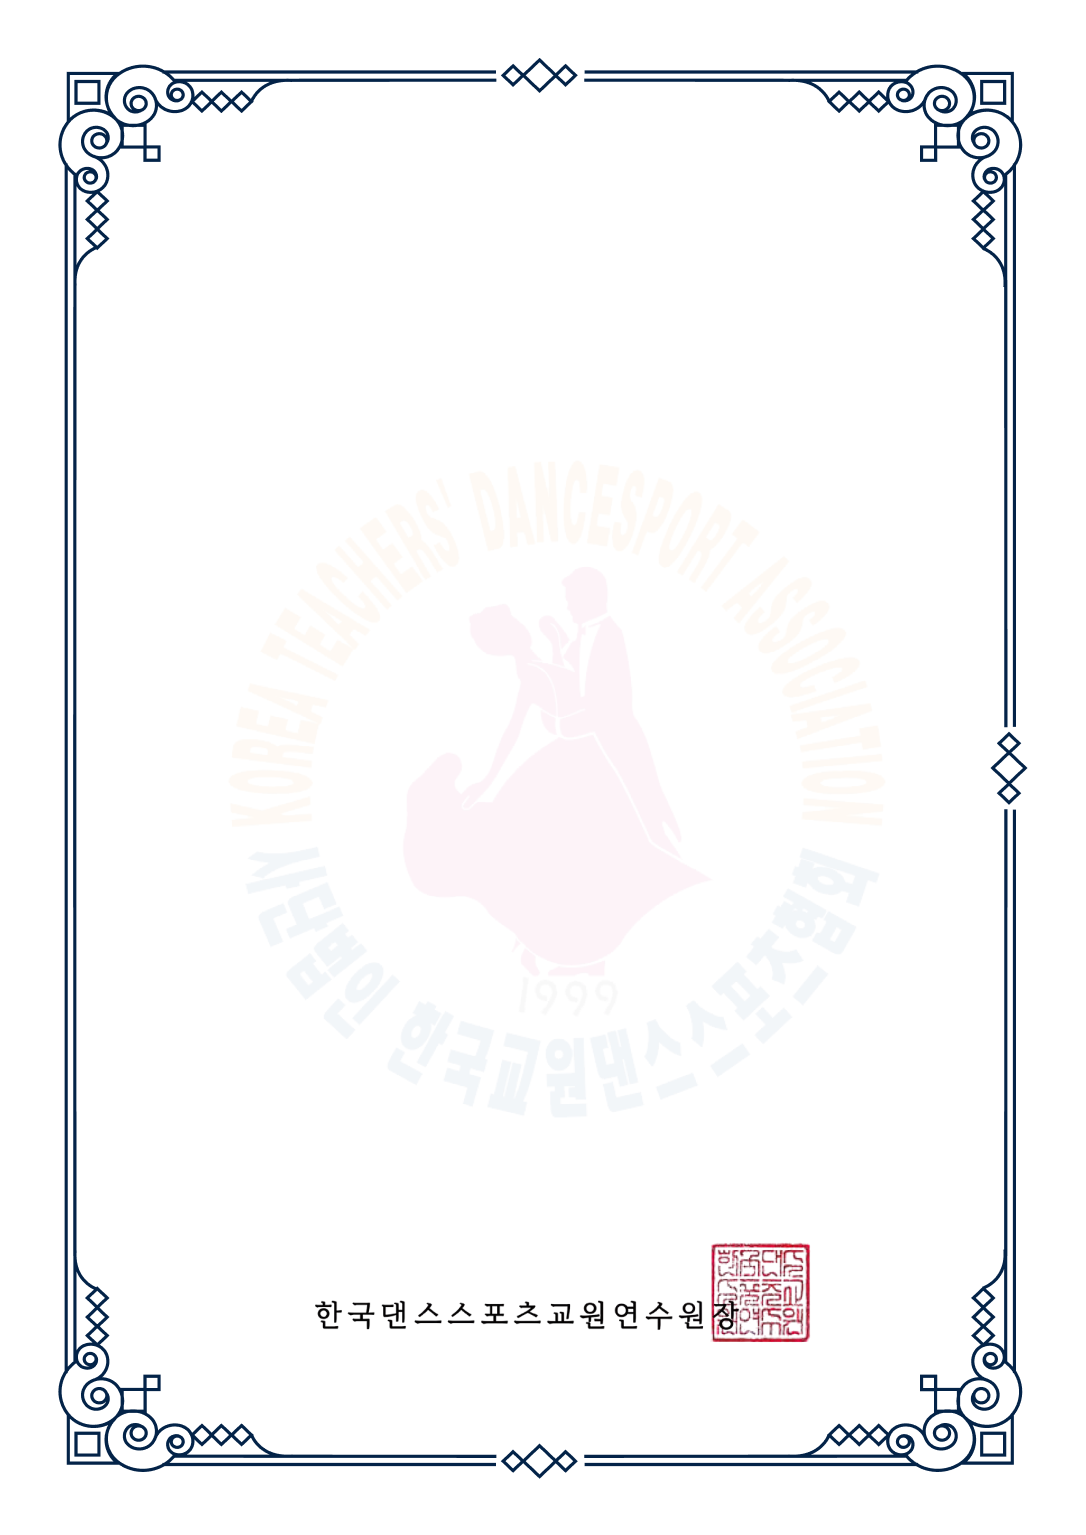
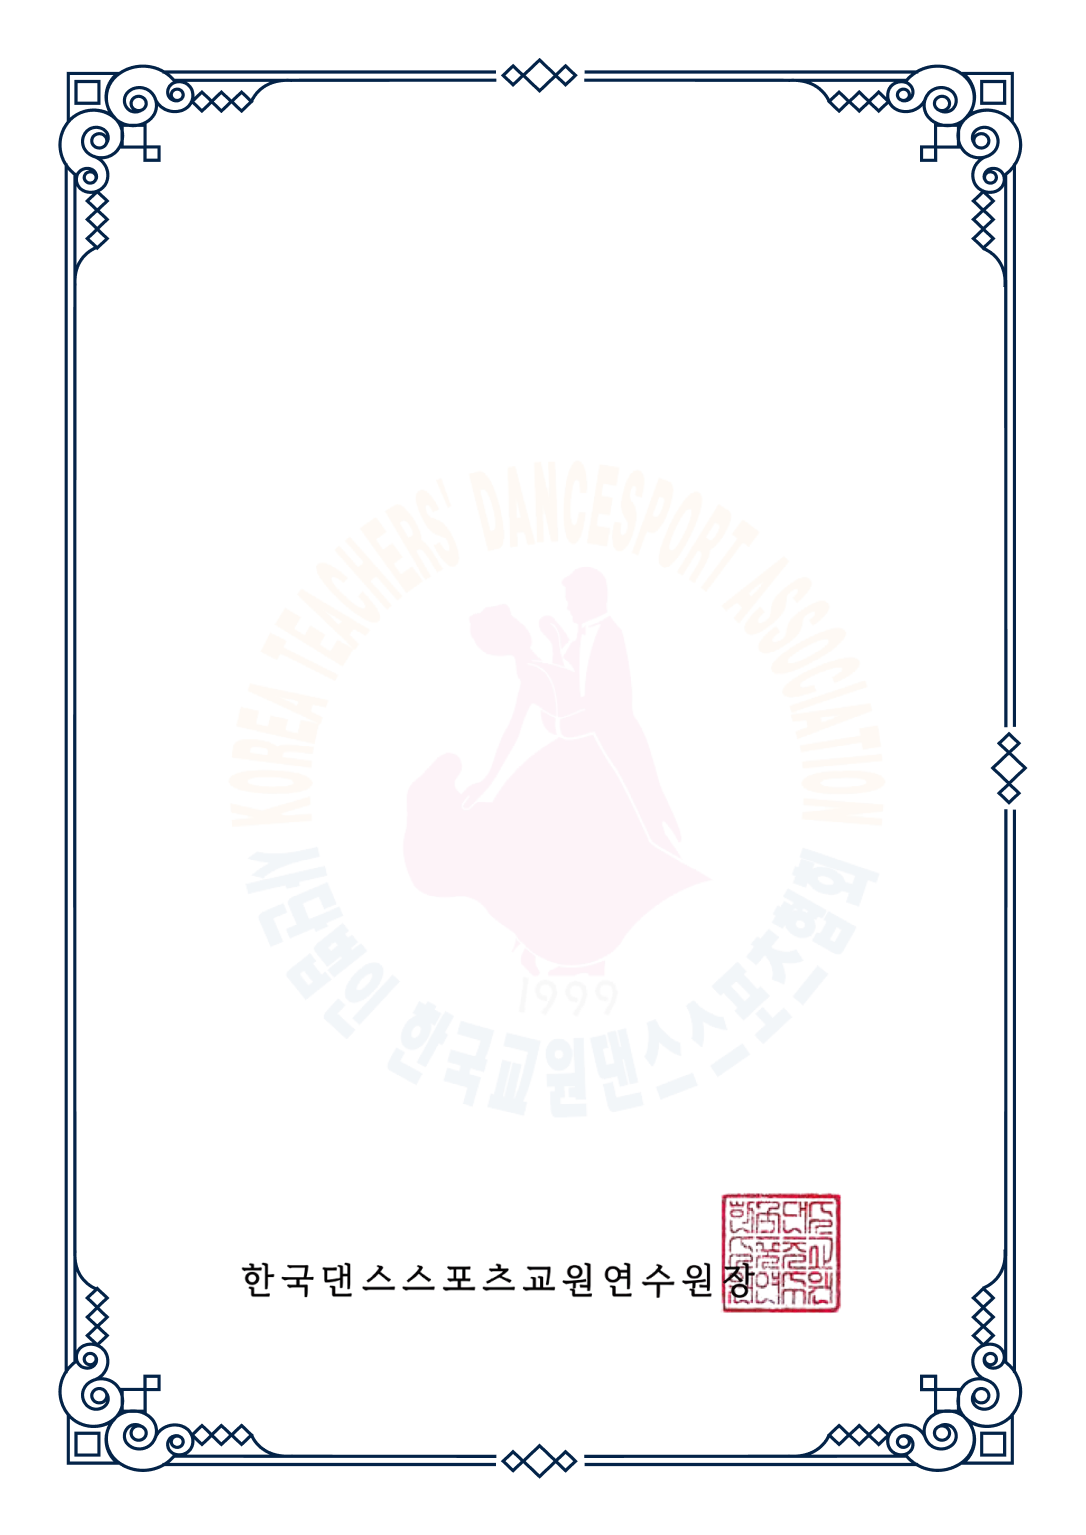
04/16-edit

Changed region(s): [[0.2127, 0.7655, 0.7901, 0.8879]]

diff --git a/student-record.html b/student-record.html
@@ -513,7 +513,7 @@
 
 
     <!-- 컨텐츠 영역 -->
-    <div id="main-content" class="ml-64 max-lg:ml-0 transition-all duration-300 overflow-y-auto min-h-screen max-w-[1520px]" style="z-index: -1;">
+    <div id="main-content" class="ml-64 max-lg:ml-0 transition-all duration-300 overflow-y-auto min-h-screen max-w-[1520px]" >
         <div class="w-full h-full px-6 max-sm:pt-[70px] pt-[70px] pb-[100px] realtive">
             <h1 class="mt-[50px] h1-title border-gray-300 font-normal paperlogy">과정출석부</h1>
             <div class="flex justify-start flex-col max-md:justify-start mb-2">
@@ -1287,7 +1287,7 @@
             </button>
             <h2 class="h1-title paperlogy font-normal text-[#292929] mb-4 text-left">기초자료</h2>
             <div class="border-t-[2px] border-[#2B5BBB]"></div>
-            <div class="printArea screen-layout">
+            <div class="printArea landscape">
                 <div class="basicdata-box">
                     <h2 class="text-[28px] max-sm:text-[22px] font-semibold text-[#292929] mt-8 mb-10 text-center">라틴 초중급 과정</h2>
                     <div class="flex justify-between max-xl:flex-col">
@@ -1410,7 +1410,7 @@
                     <img src="img/exel.png" alt="엑셀 아이콘" class="w-5 h-5" />
                     엑셀<span class="block max-sm:hidden text-[#EDF3FF]">다운로드</span>
                 </button>
-                <button onclick="printClassArea('basicDataModal')"
+                <button onclick="printLandscape('basicDataModal')"
                         class="bg-[#A40B0D] hover bg-[#8E2F2A] text-white py-2 px-6 max-sm:px-4 rounded-md flex items-center gap-1">
                     <img src="img/pdf.png" alt="pdf 아이콘" class="w-5 h-5" />
                     PDF<span class="inline-block max-sm:hidden text-[#EDF3FF]">다운로드</span>
@@ -1439,7 +1439,7 @@
 
                     <div class="overflow-auto flex justify-center">
                         <table class="min-w-[1400px] w-full table-auto text-sm border border-[#ccc]">
-                            <thead class="bg-[#EDF3FF] text-[#2B5BBB] font-semibold text-center">
+                            <thead class="bg-[#EDF3FF] ftext-[#292929] font-semibold text-center">
                                 <tr>
                                     <th class="border px-2 py-2">번호</th>
                                     <th class="border px-2 py-2">학교명</th>
@@ -1535,7 +1535,7 @@
                     <img src="img/exel.png" alt="엑셀 아이콘" class="w-5 h-5" />
                     엑셀<span class="block max-sm:hidden text-[#EDF3FF]">다운로드</span>
                 </button>
-                <button onclick="printClassArea('attendanceModal')"
+                <button onclick="printLandscape('attendanceModal')"
                         class="bg-[#A40B0D] hover bg-[#8E2F2A] text-white py-2 px-6 max-sm:px-4 rounded-md flex items-center gap-1">
                     <img src="img/pdf.png" alt="pdf 아이콘" class="w-5 h-5" />
                     PDF<span class="inline-block max-sm:hidden text-[#EDF3FF]">다운로드</span>
@@ -1604,7 +1604,7 @@
                     <img src="img/exel.png" alt="엑셀 아이콘" class="w-5 h-5" />
                     엑셀<span class="block max-sm:hidden text-[#EDF3FF]">다운로드</span>
                 </button>
-                <button onclick="printClassArea('nameTagModal')"
+                <button onclick="printLandscape('nameTagModal')"
                         class="bg-[#A40B0D] hover bg-[#8E2F2A] text-white py-2 px-6 max-sm:px-4 rounded-md flex items-center gap-1">
                     <img src="img/pdf.png" alt="pdf 아이콘" class="w-5 h-5" />
                     PDF<span class="inline-block max-sm:hidden text-[#EDF3FF]">다운로드</span>
@@ -1823,18 +1823,18 @@
                 </div>
                 <div class="border-t-[1px] border-[#DBDEE3] mb-2"></div>
                 <div class="printArea screen-layout overflow-x-auto flex justify-center item-center overflow-auto no-scrollbar">
-                    <div class="relative bg-white certificate-box min-w-[500px] max-w-[500px]">
+                    <div class="relative bg-white certificate-box min-w-[450px] max-w-[450px]">
                         <img src="img/certificate-bg.png" alt="이수증 배경"
                             class="absolute inset-0 w-full h-full object-cover z-0"/>
-                        <div class="certificate-inner absolute inset-0 z-10 px-16 py-[80px] text-center text-[#222]">
-                            <h2 class="text-xl font-medium">교육연수</h2>
-                            <h1 class="text-xl font-bold mb-12">이수증</h1>
-                            <p class="certificate-info text-left text-[12px] mb-12">
+                        <div class="certificate-inner absolute inset-0 z-10 px-16 py-[70px] text-center text-[#222]">
+                            <h2 class="text-[20px] font-medium">교육연수</h2>
+                            <h1 class="text-[25px] font-bold mb-6">이수증</h1>
+                            <p class="certificate-info text-left text-[12px] mb-4">
                                 경기도교육청 지정<br>
                                 (전국) 유초중등교원 특수분야연수기관 (지정번호: 경기-교육-2024-08 )
                             </p>
 
-                            <div class="text-left mb-10 grid grid-cols-2 gap-x-6">
+                            <div class="text-left mb-6 grid grid-cols-2 gap-x-6">
                                 <!-- 나머지는 한 줄 전체 사용 -->
                                 <div class="col-span-2 text-[12px] mb-2">
                                     <span class="font-semibold text-[14px]">이수번호 :</span>
@@ -1905,16 +1905,16 @@
                     ※ 은행명: <span class="text-[#000]">기업은행</span>
                 </div>
                 <div class="border-t-[1px] border-[#DBDEE3] mb-2"></div>
-                    <div class="printArea screen-layout overflow-x-auto flex justify-center item-center overflow-auto no-scrollbar">
-                        <div class="relative bg-white receipt-box max-h-[600px] max-w-[570px] min-w-[550px]">
-                            <div class="relative z-10 p-4">
-                                <h1 class="text-center text-2xl font-bold mb-8">영 수 증</h1>
+                    <div class="printArea overflow-x-auto flex justify-center item-center overflow-auto no-scrollbar">
+                        <div class="relative bg-white receipt-box max-h-[650px] max-w-[570px] min-w-[550px]">
+                            <div class="relative z-10 p-4 receipt-inner">
+                                <h1 class="text-center text-2xl font-bold mb-8 receipt">영 수 증</h1>
                         
                                 <!-- 공급자 정보 -->
                                 <table class="table-auto w-full border border-black mb-4">
                                 <thead>
                                     <tr>
-                                    <th colspan="2" class="border border-black px-2 py-1 bg-gray-100 text-left font-semibold">공급자 정보</th>
+                                    <th colspan="2" class="border border-black px-2 py-1 bg-gray-100 text-left font-semibold text-[18px]">공급자 정보</th>
                                     </tr>
                                 </thead>
                                 <tbody>
@@ -1937,7 +1937,7 @@
                                 <table class="table-auto w-full border border-black text-sm mb-6">
                                 <thead>
                                     <tr>
-                                    <th colspan="4" class="border border-black px-2 py-1 bg-gray-100 text-left font-semibold">연수 수강자 정보</th>
+                                    <th colspan="4" class="border border-black px-2 py-1 bg-gray-100 text-left font-semibold text-[18px]">연수 수강자 정보</th>
                                     </tr>
                                 </thead>
                                 <tbody>
@@ -1961,12 +1961,12 @@
                                 </table>
                         
                                 <!-- 기타 문구 -->
-                                <p class="mt-6 text-sm text-center">
+                                <p class="mt-6 text-[14px] text-center">
                                     상기 연수비를 납입하였음을 확인합니다. <br/>
                                     (직무연수 수강료)
                                 </p>
                         
-                                <p class="mt-4 text-sm text-center">2025년 04월 10일</p>
+                                <p class="mt-4 text-[14px] text-center">2025년 04월 10일</p>
                         
                                 <div class="mt-4 w-[70%] mx-auto">
                                     <img src="img/receipt-bottom.png" alt="한국댄스스포츠연수원장 직인">
@@ -2265,6 +2265,65 @@
             window.print();
             document.body.innerHTML = originalContents;
         }
+
+        function printLandscape(modalId) {
+            const printArea = document.getElementById(modalId).querySelector('.printArea');
+            if (printArea) {
+                // 가로 방향 및 용지 크기 확대를 위한 style 추가
+                const landscapeStyle = document.createElement('style');
+                landscapeStyle.id = 'tempLandscapeStyle';
+                landscapeStyle.textContent = `
+                    @media print {
+                        @page {
+                            size: landscape;
+                            margin: 5mm;
+                        }
+                    }
+                `;
+                document.head.appendChild(landscapeStyle);
+
+                const originalStyle = document.createElement('style');
+                originalStyle.id = 'tempOriginalStyle';
+                originalStyle.textContent = `
+                    @media print {
+                        body * {
+                            visibility: hidden;
+                        }
+                        #${modalId} .printArea, #${modalId} .printArea * {
+                            visibility: visible;
+                        }
+                        #${modalId} {
+                            position: absolute;
+                            left: 0;
+                            top: 30;
+                            width: auto !important; /* auto로 변경하여 내용에 맞게 조절 */
+                            height: auto !important;
+                            display: block !important; /* flex hidden 해제 */
+                        }
+                        #${modalId} .printArea {
+                            width: 100%; /* printArea 자체의 너비도 100%로 설정 */
+                        }
+                    }
+                `;
+                document.head.appendChild(originalStyle);
+
+                window.print();
+
+                // 인쇄 후 스타일 태그 제거
+                window.onafterprint = () => {
+                    const tempLandscapeStyle = document.getElementById('tempLandscapeStyle');
+                    const tempOriginalStyle = document.getElementById('tempOriginalStyle');
+                    if (tempLandscapeStyle) {
+                        document.head.removeChild(tempLandscapeStyle);
+                    }
+                    if (tempOriginalStyle) {
+                        document.head.removeChild(tempOriginalStyle);
+                    }
+                    window.onafterprint = null;
+                };
+            }
+        }
+        
 
 
         // ✅  영수증 슬라이드

diff --git a/css/main.css b/css/main.css
@@ -153,21 +153,21 @@ a * {
 
 @media print {
     @page {
-        size: A4;
-        margin: 0;
+        size: A4 portrait;
+        margin: 20mm;
     }
 
     body,
     html {
-        margin: 0 auto;
-        width: 794px;
-        height: 1123px;
+        width: 100%;
+        height: 100%;
         background-color: #FFFFFF !important;
     }
 
     table {
         border-collapse: collapse;
         width: 100%;
+        table-layout: fixed;
     }
 
     th,
@@ -190,34 +190,67 @@ a * {
     }
 
     .printArea {
-        width: 750px;
+        width: 100%;
         height: auto;
-        margin: 20px auto; 
-        background-color: white;
     }
 
-    .basicdata-box {
-        box-sizing: border-box;
-        width: 1123px !important;
-        height: 794px !important;
-        min-width: none !important;
-        padding: 100px;
-        display: block !important;
-    }
 
-    .attendance-box {
+    .receipt-box {
+        width: 794px !important;
         box-sizing: border-box;
-        width: 100% !important;
-        height: auto !important;
-        min-width: none !important;
-        max-width: 1123px !important;
-        height: auto !important;
-        padding: 10px;
         margin: 0 auto;
-        display: block;
-        background-color: #ffffff !important; 
     }
 
+    .certificate-box img {
+        margin: 20px auto;
+        width: 96%;
+        height: 96%;
+        object-fit: cover;
+    }
+
+    .certificate-box {
+        width: 794px !important;
+        height: 1123px !important;
+        box-sizing: border-box;
+        max-width: none !important;
+        aspect-ratio: auto !important;
+    }
+
+    .certificate-inner {
+        margin: 0 auto;
+        width: 630px;
+    }
+
+
+    .certificate-box h2 {
+        margin-top: 70px;
+        font-size: 35px !important;
+    }
+
+    .certificate-box h1 {
+        font-size: 45px !important;
+        margin-bottom: 50px;
+    }
+
+    .certificate-box p {
+        font-size: 18px !important;
+        line-height: 2 !important;
+    }
+
+    .certificate-box .certificate-info {
+        margin-bottom: 50px;
+    }
+
+    .certificate-box span {
+        font-size: 22px !important;
+        line-height: 2 !important;
+        margin-bottom: 20px;
+    }
+
+    .certificate-box .grid>div:last-child {
+        margin-bottom: 20px;
+    }
+    
     .namatag-box-flex {
         max-width: 1300px;
         display: flex;
@@ -225,70 +258,6 @@ a * {
         justify-content: start;
         align-items: start;
         gap: 5px;
-    }
-
-    .certificate-box img {
-        position: absolute;
-        top: 0;
-        left: 0;
-        width: 794px;
-        height: 1123px;
-        object-fit: cover;
-        z-index: 0;
-    }
-
-    .certificate-box {
-        max-height: none;
-        box-sizing: border-box;
-        width: 794px !important;
-        height: 1123px !important;
-        max-width: none !important;
-        aspect-ratio: auto !important;
-    }
-
-    .certificate-inner {
-        margin-left: 40px;
-    }
-
-
-    .certificate-box h2 {
-        margin-top: 60px;
-        font-size: 35px !important;
-        margin-right: 40px;
-    }
-
-    .certificate-box h1 {
-        font-size: 40px !important;
-        margin-top: 30px;
-        margin-bottom: 70px;
-        margin-right: 40px;
-    }
-
-    .certificate-box p {
-        font-size: 20px !important;
-        line-height: 2 !important;
-        margin-right: 40px;
-    }
-
-    .certificate-box span {
-        font-size: 25px !important;
-        line-height: 2 !important;
-        margin-bottom: 15px;
-    }
-
-    .certificate-box .certificate-info,
-    .certificate-box .grid>div:last-child {
-        margin-bottom: 50px;
-    }
-
-    .receipt-box {
-        width: 80%;
-        min-width: 600px;
-        height: auto;
-        margin: 0 auto;
-        overflow: hidden;
-        box-sizing: border-box;
-        padding: 24px;
     }
 
     * {

diff --git a/user.html b/user.html
@@ -1999,7 +1999,7 @@
                 const menu = dropdown.querySelector('.dropdown-menu');
                 document.querySelectorAll('.dropdown').forEach(d => d.style.zIndex = '0');
                 if (menu.classList.contains('hidden')) {
-                    dropdown.style.zIndex = '10';
+                    dropdown.style.zIndex = '5';
                 }
                 document.querySelectorAll('.dropdown-menu').forEach(m => {
                     if (m !== menu) m.classList.add('hidden');

diff --git a/user-create.html b/user-create.html
@@ -1015,7 +1015,7 @@
                     closeAllDropdowns();
 
                     menu.classList.remove("hidden");
-                    dropdown.classList.add("z-[9999]");
+                    dropdown.classList.add("z-25");
                 });
 
                 menu.addEventListener("click", function (event) {
